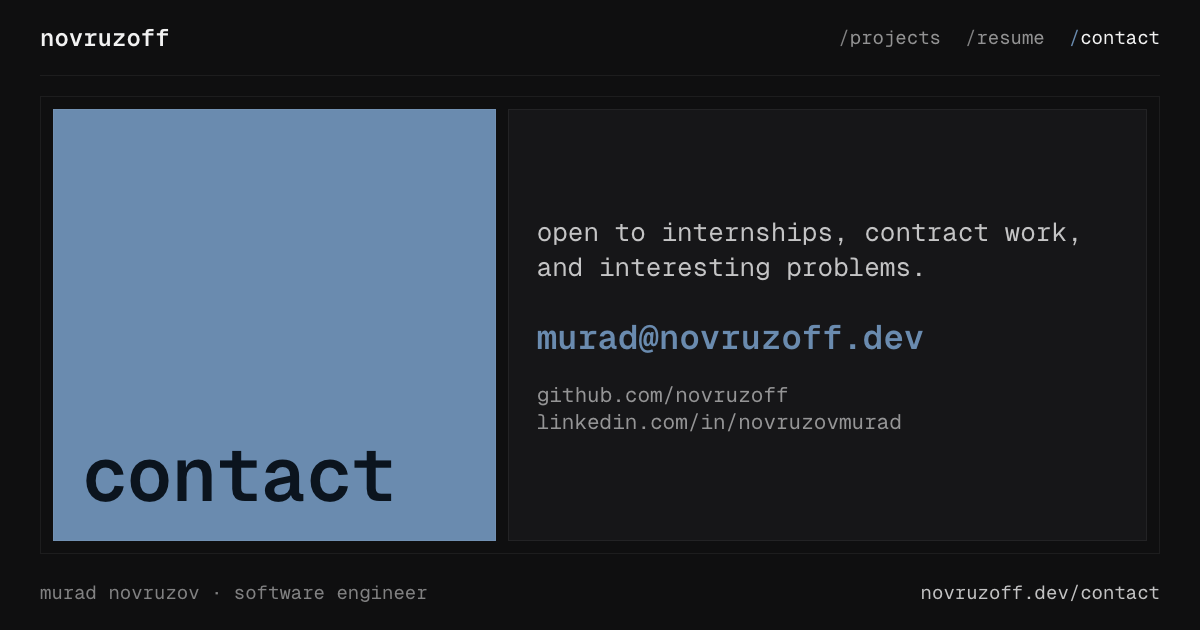
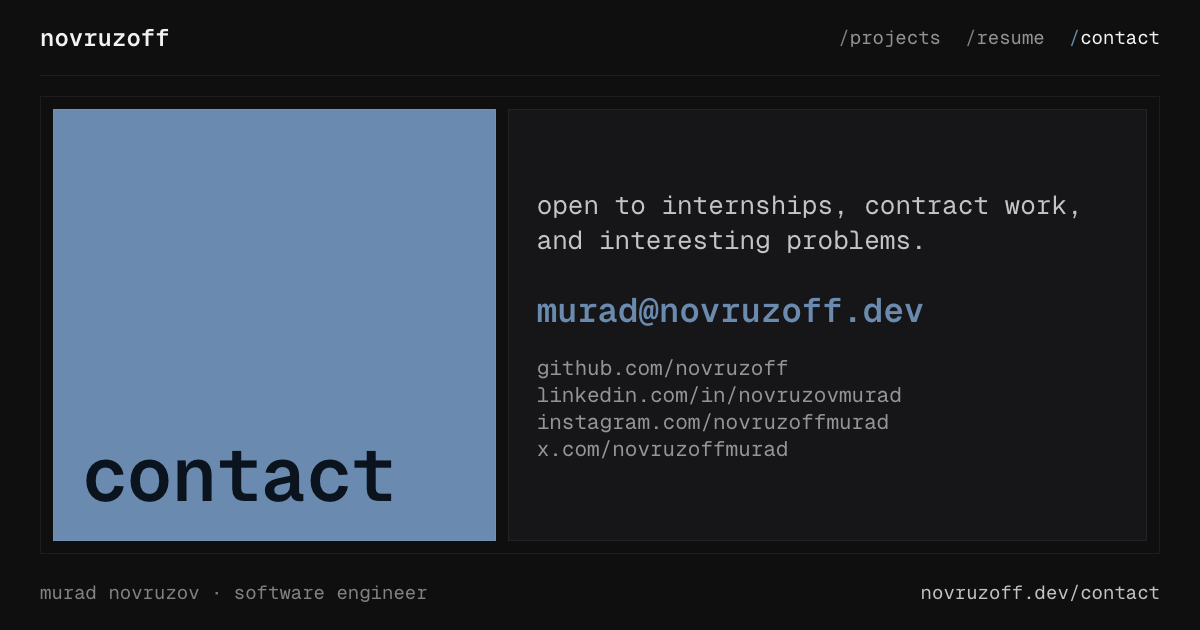
feat(redesign): blue header and footer, add instagram and x, plain footer links

Changed region(s): [[0.4317, 0.3016, 0.8942, 0.7238]]

diff --git a/CLAUDE.md b/CLAUDE.md
@@ -54,7 +54,7 @@ Dark-only. Near-black, not pure black. **Exactly two blues**, one muted hue; not
 **Two blues, one hue.** `--panel-dark` (`#0B141E`, HSL 211.6° / 46% / 8%) and `--panel-muted` (`#6A8BAF`, 211.3° / 30% / 55%) are the site's only colors besides the neutrals. Both are muted: no saturated fills anywhere. (They replaced an earlier saturated Barça blue and a separate brighter link blue; don't reintroduce either, or add a third blue.)
 
 - **As a pair** (the homepage text panels, the favicon, the social cards' name panels): one is the other's text. **5.23:1 either way** (AA is 4.5:1). The greeting is `--panel-muted` on `--panel-dark`; the statement, the favicon and the cards' name panels are `--panel-dark` on `--panel-muted`. `--panel-dark` is only 1.03:1 against `--bg-page`, so a `--panel-dark` panel relies on its 0.5px `--border-subtle` frame to read as a panel; keep the frame. `--panel-dark` is never a text color on the page itself.
-- **As the accent** (`--accent` is `--panel-muted` under its job name): links, accent text, the current-page `/` in the header, the current-role dot, focus rings, the metric values on /projects. Measured: **5.41:1 on `--bg-page`, 5.10:1 on `--bg-elevated`** (metric tiles), 4.80:1 on `--bg-hover` (unused today), 5.33:1 on the header's blurred backdrop over a tile. Focus rings need 3:1 and get 5.41:1 / 5.10:1.
+- **As the accent** (`--accent` is `--panel-muted` under its job name): links, accent text, **all header and footer text** (the name, the nav links, the copyright line, the social links), the current-page underline, the current-role dot, focus rings, the metric values on /projects. Measured: **5.41:1 on `--bg-page`, 5.10:1 on `--bg-elevated`** (metric tiles), 4.80:1 on `--bg-hover` (unused today), and on the header's translucent backdrop (94% `--bg-page` over whatever scrolls beneath) 5.41:1 over the page and **4.73:1 worst case**, over a pure-white region (a photo highlight, the App Store badge); at the old 72% it was 2.20:1, and 3.68:1 over the light statement panel. The footer is solid `--bg-page`: 5.41:1. Focus rings need 3:1 and get 5.41:1 / 5.10:1.
 - **There's no lighter link blue.** Hovering an accent-colored link goes to `--text-primary`; hovering a neutral link (the Penknife page links, the header) goes to `--accent` or `--text-primary`. A link inside a line of text needs its `--accent-border` underline: `--accent` is only 1.15:1 against the surrounding `--text-secondary` grey (WCAG 1.4.1).
 - **Selected text** is `--text-primary` on `--accent-bg` (13.55:1). `--accent` on `--accent-bg` would be 4.21:1, so don't use it there.
 - Any new use of either blue as text must be measured against its real background and clear 4.5:1; if it doesn't, change the background or use a neutral, not a new blue.
@@ -81,7 +81,7 @@ Wire as CSS custom properties in `global.css`, exposed to Tailwind v4 via `@them
 - Acronyms and initialisms: APSC, RLS, JWT, SEO, LCP, SSMU, ARB, SCS, RBAC, MCQ, IVUS, OCT, CSS, PDF, JSON (and any other acronym — never "apsc" or "rls"). So the project is "SSMU websites" and the company is "ARB (azerbaijan republic broadcaster)". "BSc" keeps its casing.
 - Brand and product casing: McGill (the one organization that keeps its casing), and third-party product and technology names — iOS, iPhone, iCal, GitHub, LinkedIn, WordPress, Lighthouse, PageSpeed, App Store, Next.js, TypeScript, PostgreSQL, Swift, SwiftUI, App Intents, JavaFX, and every name in a stack or skills list, exactly as the vendor writes it. Generic terms built from them are lowercase ("speed index", "agile").
 - **Not rendered copy, so normally cased:** JSON-LD structured data, image `alt` text, `aria-label`s.
-- **One deliberate exception to the brand rule:** the footer's bracket links are `[github]` `[linkedin]` `[email]`, lowercase, because they read as handles, not brand names. Brand casing applies everywhere else, prose included ("my code is on GitHub").
+- **One deliberate exception to the brand rule:** the footer's links are `github` `linkedin` `instagram` `x` `email`, lowercase, because they read as handles, not brand names. Brand casing applies everywhere else, prose included ("my code is on GitHub"; /contact's labels are GitHub, LinkedIn, Instagram, X).
 
 Page `<title>`s and meta descriptions are normally cased on purpose: they're search and social snippets, not page copy ("Projects — Murad Novruzov").
 
@@ -94,7 +94,7 @@ Not converted yet: the Penknife pages' body copy (sentence case, US English; the
 - No logo marks, monograms, or graphic brand elements in the header.
 - No decorative dots, chevrons, or shapes next to the name.
 - The handle `novruzoff`, in Geist Mono 600, is the header's name element.
-- Typographic punctuation is fine and is part of the system: the `/` before header links and the `[ ]` around footer links. Both are drawn in CSS with empty alt text (`content: "/" / ""`), so they're never announced.
+- Typographic punctuation is fine and is part of the system: the `/` before header links, drawn in CSS with empty alt text (`content: "/" / ""`) so it's never announced. Footer links are plain words separated by space: no brackets, no separators.
 - Typography is the brand.
 
 ### Typography
@@ -148,7 +148,7 @@ Small and specific. No GSAP, no smooth scroll, no scroll-driven or scroll-trigge
 
 - 0.5px borders only. Background layering creates hierarchy.
 - Content column: `.wrap`, `max-width: 828px` including `clamp(20px, 4vw, 40px)` side padding (748px of content at desktop). Shared by the document pages' `<main>`, header and footer. The home page uses `.wrap-wide` instead (full width, `clamp(16px, 2vw, 24px)` side padding), and so do its header and footer (`wide` prop).
-- Header (`src/components/Header.astro`): sticky, 52px, 72% `--bg-page` + `backdrop-filter: blur(12px)` with a 0.5px `--border-subtle` hairline. Stays on one line down to 320px: 13px links with 16px gaps; 12px with 12px gaps under 400px; the `/` prefixes drop under 360px (the widest set, the three Penknife links, measures 270px there against a 280px row).
+- Header (`src/components/Header.astro`): sticky, 52px, 94% `--bg-page` + `backdrop-filter: blur(12px)` (94%, not more transparent, so its blue text holds 4.5:1 over anything scrolling beneath) with a 0.5px `--border-subtle` hairline. Stays on one line down to 320px: 13px links with 16px gaps; 12px with 12px gaps under 400px; the `/` prefixes drop under 360px (the widest set, the three Penknife links, measures 270px there against a 280px row).
 
 #### Home panel grid (`src/pages/index.astro`)
 
@@ -223,9 +223,12 @@ Optional at build time: `index.astro` finds each file with `import.meta.glob`, s
 
 ### Shared chrome
 
-- **Header** (`src/components/Header.astro`, every page; replaces the old `SiteNav` and `PageHeader`). `novruzoff` on the left, linking to `/`; a link list on the right from the `links` prop (default: projects, resume, contact; the Penknife pages pass `PENKNIFE_NAV` from `src/data/penknife.ts`). `aria-current="page"` goes on whichever link's `href` equals the page's served URL (the name link included, on `/`). `label` names the `<nav>` landmark (default "Primary"; Penknife passes "Penknife"). `wide` swaps the 828px `.wrap` column for the full-width `.wrap-wide` (home only). No script: plain links, native keyboard behavior. Links have 6px block padding so each target is ~33px tall (WCAG 2.5.8).
-- **Footer** (`src/components/Footer.astro`, every page): "© {year} murad novruzov · montreal" on the left; `[github]` `[linkedin]` `[email]` on the right (`mailto:murad@novruzoff.dev`), wrapping below the line on phones. The brackets are CSS with empty alt text, so each link's accessible name is the visible word (WCAG 2.5.3). `wide` (home only) uses `.wrap-wide` and drops the top margin and hairline, since the panel grid's frame closes the page.
-- Keep link labels on the same line as their `<a>` tag in both components: whitespace inside the link renders as a gap after the CSS `/` or inside the brackets.
+- **Header** (`src/components/Header.astro`, every page, Penknife included). `novruzoff` on the left, linking to `/`; a link list on the right from the `links` prop (default: projects, resume, contact; the Penknife pages pass `PENKNIFE_NAV` from `src/data/penknife.ts`). `label` names the `<nav>` landmark (default "Primary"; Penknife passes "Penknife"). `wide` swaps the 828px `.wrap` column for the full-width `.wrap-wide` (home only). No script: plain links, native keyboard behavior. Links have 6px block padding so each target is ~33px tall (WCAG 2.5.8).
+  - **Colour:** everything (name, links, their `/`) is `--accent` at rest and `--text-primary` on hover and `:focus-visible`, like jonahseguin.com's single-colour chrome.
+  - **Current page:** `aria-current="page"` on whichever link's `href` equals the page's served URL (the name link included, on `/`), and that link is **underlined**, since colour can't mark it any more. The underline is the site's thin link-underline shape (1px, offset 5px) but in `--accent` itself, not the 35% `--accent-border`: it's the only cue for the state, so it needs 3:1 (WCAG 1.4.11), and `--accent` is 5.41:1 where `--accent-border` is 1.67:1. The `/` is `inline-block` so the underline covers the word only.
+- **Footer** (`src/components/Footer.astro`, every page): "© {year} murad novruzov · montreal" on the left, then `github` `linkedin` `instagram` `x` `email` (in that order; `mailto:murad@novruzoff.dev`), plain words with 16px between them. All `--accent`, hover/focus `--text-primary`. The copyright line and links share a row when they fit and otherwise wrap onto two left-aligned lines (all phones); the five links are 273px at 12px, so they stay on one line down to 320px (280px row), with `flex-wrap` as the safety net. `wide` (home only) uses `.wrap-wide` and drops the top margin and hairline, since the panel grid's frame closes the page.
+- **Social profiles** (footer, /contact, and the homepage Person JSON-LD `sameAs`): GitHub `github.com/novruzoff`, LinkedIn `linkedin.com/in/novruzovmurad`, Instagram `instagram.com/novruzoffmurad`, X `x.com/novruzoffmurad`. /contact shows each as label + readable address; the contact social card lists the same four (`CONTACT_HANDLES` in `scripts/generate-og.mjs`).
+- Keep link labels on the same line as their `<a>` tag in the header: whitespace inside the link renders as a gap after the CSS `/`.
 
 Case study pages may come later under `/projects/[slug]`.
 
@@ -271,7 +274,7 @@ Static by design: no JS at all, no reveals, no scroll-driven motion. Each page i
 }
 ```
 
-Only include URLs that resolve publicly; omit a link rather than ship a 404 (MyMeetings' repo is private, so it has none). `ProjectRow` renders every link present ("case study", "live", "App Store", "repo"). Absolute `http(s)` links open in a new tab; site-relative ones (`/penknife`) don't.
+Only include URLs that resolve publicly; omit a link rather than ship a 404 (MyMeetings' repo is private, so it has none). **Exception: Instagram and X** block automated requests (a login wall or an error for bots), so a failed fetch there isn't a dead link; the two handles are confirmed by Murad and stay even if a link checker flags them. `ProjectRow` renders every link present ("case study", "live", "App Store", "repo"). Absolute `http(s)` links open in a new tab; site-relative ones (`/penknife`) don't.
 
 ### Experience (`src/data/experience.ts`)
 ```ts
